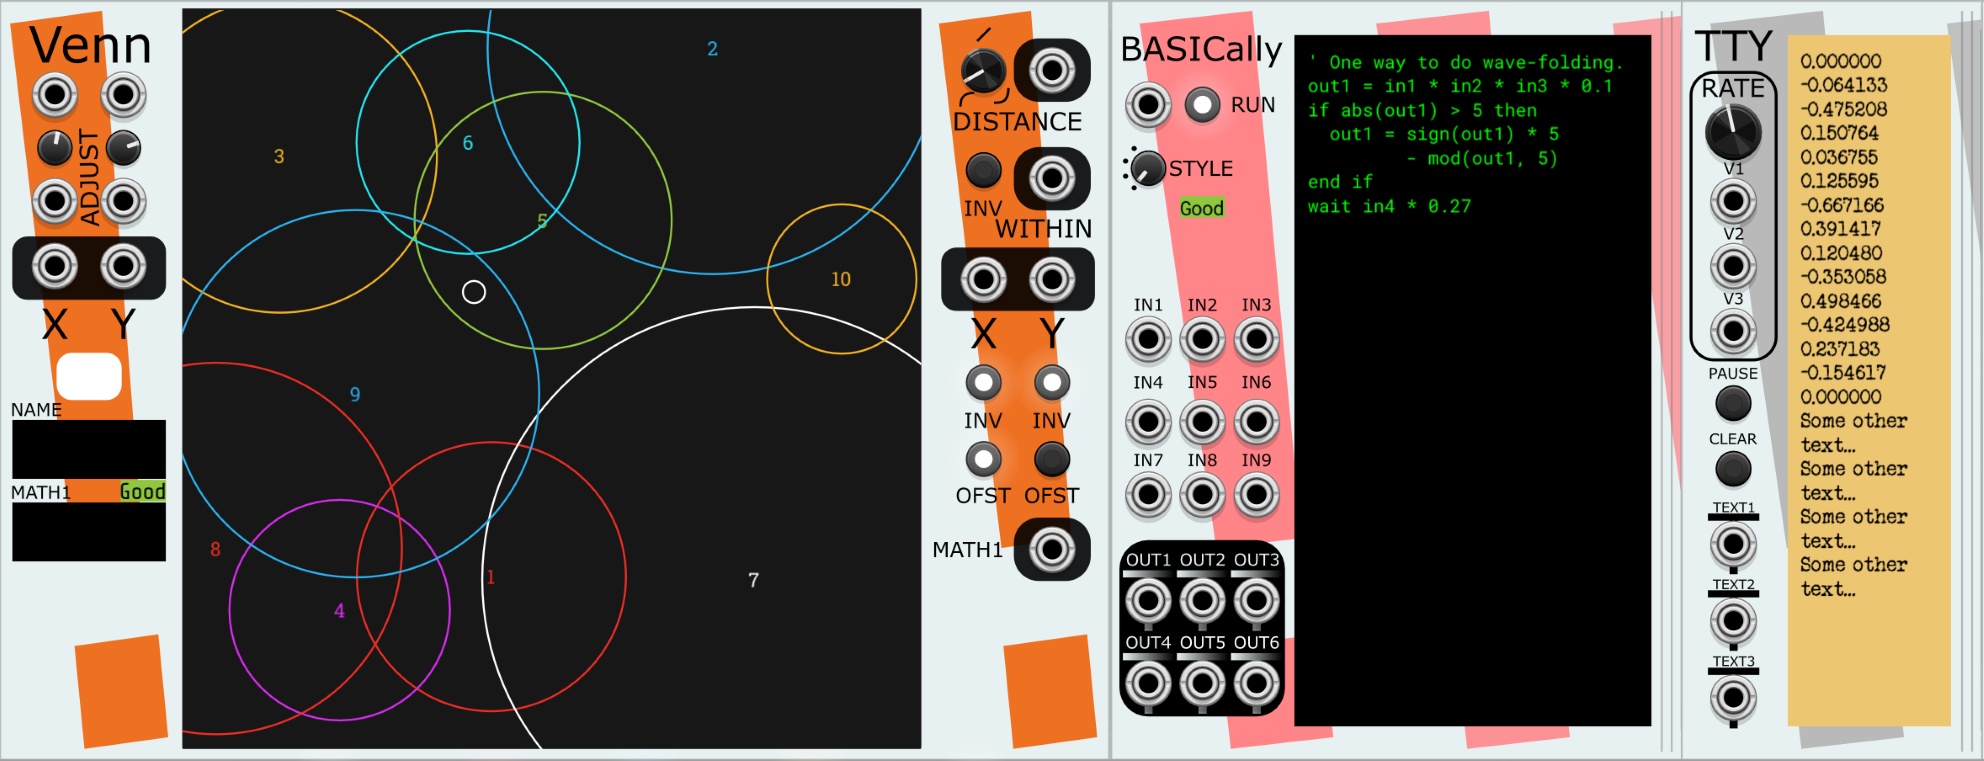
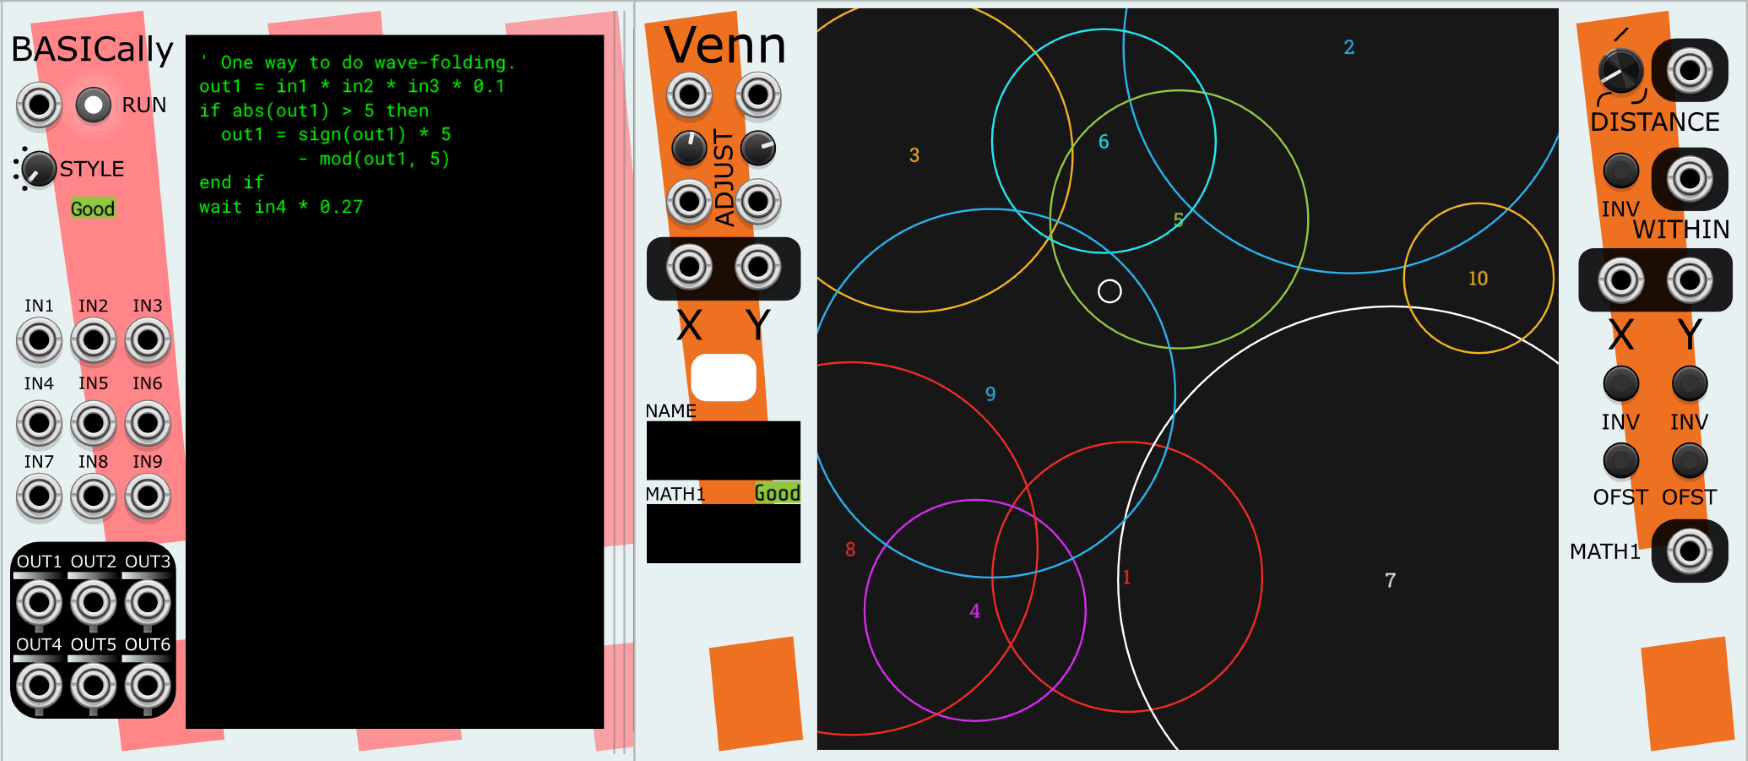
Update the top-of-page family and doc links section.

diff --git a/README.md b/README.md
@@ -2,11 +2,7 @@
 Modules for use with VCV Rack 2.0, with an emphasis on generative and
 self-regulating structure. Exploring the region between random and static.
 
-![All Modules image](images/TheFamily.png)
-![Memory Modules image](images/TheFamilyRowTwo.png)
-
-* [Memory System](Memory.md): A set of seven interrelated recording/playback modules with [their own documentation](Memory.md).
-* [BASICally](#basically): A simple, possibly familiar procedural programming language designed to work within the context of VCV Rack. 
+![Stochastic Telegraph Modules](images/TheFamily.png)
 * [Chances](#chances): A random number generator where you select the desired values, their relative frequency, and how values are chosen (e.g., no repeats). Useful as both as a tightly constrained random number generator and as a quantizer for non-note values.
 * [Distribute](#distribute): A random number generator with flexible output ranges and unusually tunable probability distributions.
 * [Drifter](#drifter): Creates sequences of values that can slowly (or quickly) vary, like a series of points doing random walks connected into a series.
@@ -14,7 +10,16 @@ self-regulating structure. Exploring the region between random and static.
 Stochastic Telegraph-style.
 * [Fuse](#fuse): Block, allow, or attenuate a signal passing through, based on the number of triggers observed in a different signal.
 * [TTY](#tty): A scrolling text window that displays distinct values it gets, and also displays [Tipsy](https://github.com/baconpaul/tipsy-encoder) text messages sent by other modules (like BASICally).
+
+![Stochastic Telegraph Modules](images/TheFamilyRowTwo.png)
+* [BASICally](#basically): A simple, possibly familiar procedural programming language designed to work within the context of VCV Rack. 
 * [Venn](#venn): A 2D graphical signal generator consisting of up to sixteen visible Circles and a visible Point chosen by mouse or CV. Where the Point is in relation to a Circle determines five CV values per Circle. 
+
+![Memory Modules](images/MemoryFamilySameHeight.png)
+* [The Memory System](Memory.md): A set of seven interrelated recording/playback modules with [their own documentation](Memory.md).
+
+![Twixt Modules](images/TwixtFamily.png)
+Twixt and Mixt, a pair of premium modules, with [their own documentation](https://github.com/mahlenmorris/STPremium/blob/main/Twixt.md).
 
 ![Line Break image](images/Separator.png)
 
